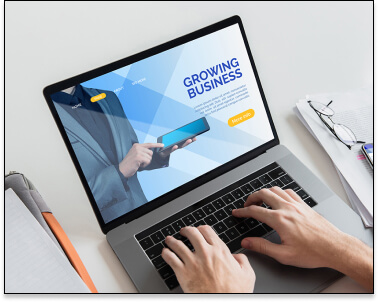
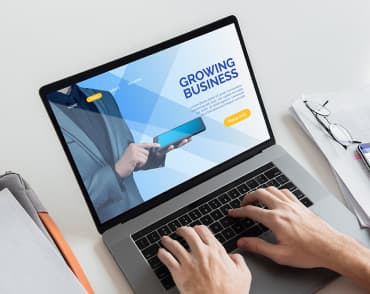
Поправил после проверки ментора

Changed region(s): [[0.0, 0.0, 1.0, 1.0], [0.773, 0.5204, 0.8027, 0.551]]

diff --git a/css/styles.css b/css/styles.css
@@ -4,6 +4,7 @@
 /*основнй колір фону #FFFFFF */
 /*колір фону підвалу #2F303A */
 /*колір фону Наша команда та фільтр #F5F4FA */
+/* колір кнопки #188CE8 */
 
 :root{
     --main-color-text: #212121;
@@ -14,6 +15,7 @@
     --secondary-bgc: #F5F4FA;
     --logo-color: #000000;
     --link-color: rgba(255, 255, 255, 0.6);
+    --button-color: #188CE8;
 }
 
 
@@ -66,7 +68,6 @@ body {
 }
 .contact-mail{
         font-family: 'Roboto', sans-serif;
-        font-style: normal;
         font-weight: 500;
         font-size: 14px;
         line-height: 1.14;
@@ -79,7 +80,6 @@ body {
 }
 .contact-phone {
     font-family: 'Roboto', sans-serif;
-    font-style: normal;
     font-weight: 500;
     font-size: 14px;
     line-height: 1.14;
@@ -97,7 +97,6 @@ body {
 }
 .hero-title{
         font-family: 'Roboto', sans-serif;
-            font-style: normal;
         font-weight: 900;
         font-size: 44px;
         line-height: 1.36;
@@ -107,9 +106,8 @@ body {
         color: var(--white-color);
 }
 .modal-open-button{
-        background-color: var(--accent);;
+        background-color: var(--button-color);
         font-family: 'Roboto', sans-serif;
-        font-style: normal;
         font-weight: 700;
         font-size: 16px;
         line-height: 1.88;
@@ -119,6 +117,11 @@ body {
         font-family: inherit;
         border: none;
         border-radius: 4px;
+}
+.modal-open-button:hover,
+.modal-open-button:focus {
+    background-color: var(--button-color);
+    color: var(--white-color);
 }
 
 /* benefits */
@@ -138,7 +141,6 @@ body {
 
 .benefits-list-title{
     font-family: 'Roboto', sans-serif;
-    font-style: normal;
     font-weight: 700;
     font-size: 14px;
     line-height: 1.14;
@@ -148,8 +150,7 @@ body {
 }
 
 .benefits-list-text{
-font-family: 'Roboto', sans-serif;
-    font-style: normal;
+    font-family: 'Roboto', sans-serif;
     font-weight: 400;
     font-size: 14px;
     line-height: 1.7;
@@ -159,8 +160,7 @@ font-family: 'Roboto', sans-serif;
 /* Work */
 
 .work-title{
-font-family: 'Roboto', sans-serif;
-    font-style: normal;
+    font-family: 'Roboto', sans-serif;
     font-weight: 700;
     font-size: 36px;
     line-height: 42px;
@@ -174,9 +174,11 @@ font-family: 'Roboto', sans-serif;
 .team{
     background-color: var(--secondary-bgc)
 }
+.team-list{
+    background-color: var(--white-color);
+}
 .team-title{
         font-family: 'Roboto', sans-serif;
-        font-style: normal;
         font-weight: 700;
         font-size: 36px;
         line-height: 1.17;
@@ -185,8 +187,7 @@ font-family: 'Roboto', sans-serif;
         color: var(--main-color-text);
 }
 .team-item{
-    font-family: 'Roboto', sans-serif;
-        font-style: normal;
+        font-family: 'Roboto', sans-serif;
         font-weight: 500;
         font-size: 16px;
         line-height: 1.19;
@@ -197,7 +198,6 @@ font-family: 'Roboto', sans-serif;
 
 .team-item-text{
         font-family: 'Roboto', sans-serif;
-        font-style: normal;
         font-weight: 400;
         font-size: 16px;
         line-height: 1.19;
@@ -212,7 +212,6 @@ font-family: 'Roboto', sans-serif;
 }
 .footer-logo {
     font-family: 'Raleway', sans-serif;
-    font-style: normal;
     font-weight: 700;
     font-size: 26px;
     line-height: 1.35;
@@ -287,7 +286,6 @@ font-family: 'Roboto', sans-serif;
 
 .portfolio-title{
     font-family: 'Roboto', sans-serif;
-        font-style: normal;
         font-weight: 700;
         font-size: 18px;
         line-height: 2.0;
@@ -297,7 +295,6 @@ font-family: 'Roboto', sans-serif;
 
 .portfolio-text{
     font-family: 'Roboto', sans-serif;
-        font-style: normal;
         font-weight: 400;
         font-size: 16px;
         line-height: 30px;

diff --git a/portfolio.html b/portfolio.html
@@ -49,8 +49,8 @@
       </ul>
     </header>
     <main>
-      <h1 class="visually-hidden">Портфоліо</h1>
       <section>
+        <h1 class="visually-hidden">Портфоліо</h1>
         <ul class="portfolio-filter">
           <li class="portfolio-filter-item">
             <button type="button" class="portfolio-filter-button">Усі</button>
